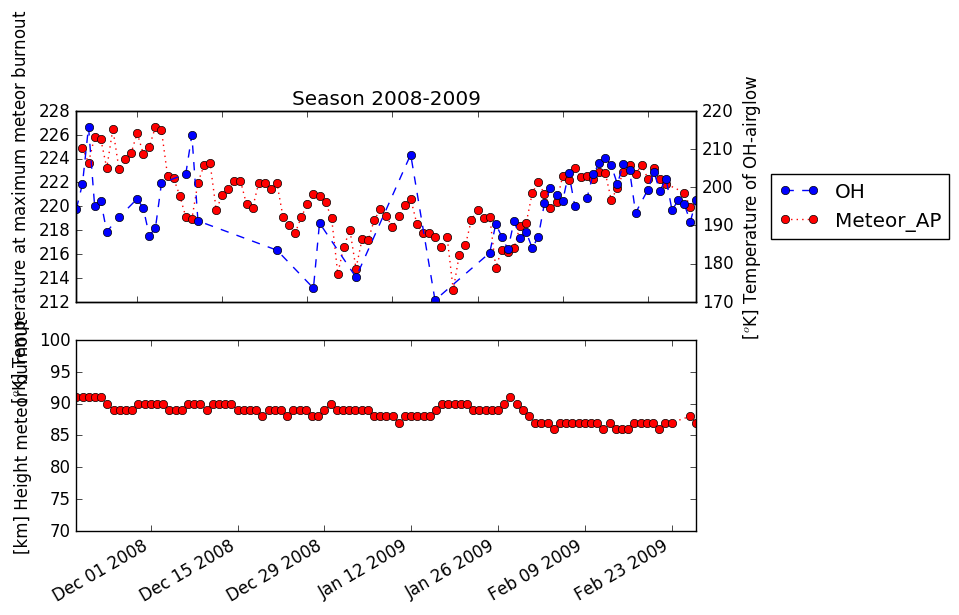
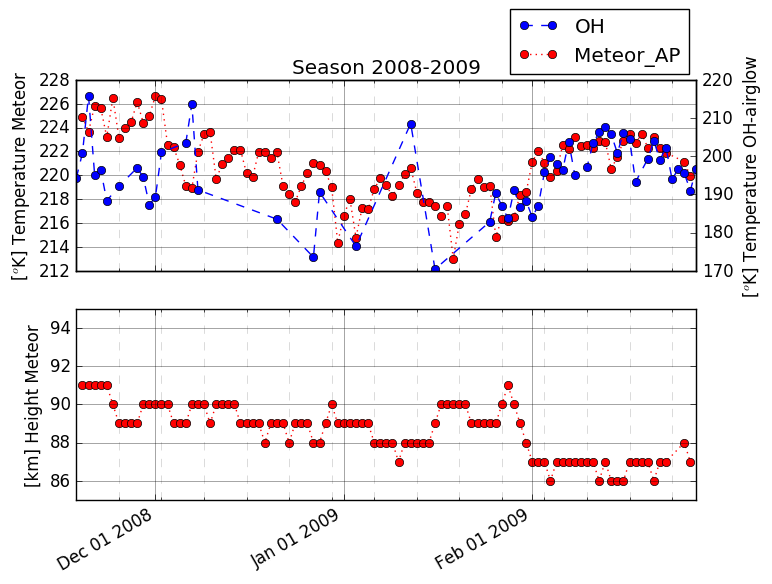
Changes to the figures, added grid and defined sacing to monts and first day of week

diff --git a/Middleatmos.py b/Middleatmos.py
@@ -4,6 +4,7 @@ import matplotlib.pyplot as mp
 import scipy.stats as stats
 from nrlmsise_00_header import *
 from nrlmsise_00 import *
+from matplotlib.dates import MonthLocator, YearLocator, WeekdayLocator
 
 from scipy import exp, asarray as ar
 from scipy.optimize import curve_fit
@@ -40,6 +41,13 @@ class Read_four_lines:
         return linesvec
 
     def read_oh(self,filename):
+        '''
+
+        Reads data for OH data set with filename daily_OHtemp_xxxx_mies.dat
+        Where xxxx is the season (ex: 1213),
+        the two first digits is the first year and the two last is the second year
+        '''
+
         infile = open(filename, 'r')
         lines =[line for line in infile]
         OH_data = zeros((len(lines),8))
@@ -76,6 +84,10 @@ class Middleatmos(Read_four_lines):
         '''
         This function reads OH data from file to a matrix OH_data
         Needs input filename of OH data,
+        Reads data for OH data set with filename daily_OHtemp_xxxx_mies.dat
+        Where xxxx is the season (ex: 1213),
+        the two first digits is the first year and the two last is the second year
+        (duplicate exist in Read_four_lines)
         '''
 
         self.filename = filename
@@ -378,19 +390,32 @@ class Middleatmos(Read_four_lines):
         l2 =ax2.plot(OH_dates, OH_temperature,'bo--', label='OH')
         l3 = ax1.plot(seasonaldates,seasonaltemperature_ap, 'ro:', label='Meteor_AP')
 
-        ax1.set_ylabel('[$^o$K] Temperature at maximum meteor burnout')
+        ax1.set_ylabel('[$^o$K] Temperature Meteor')
         #ax1.set_ylim(210,235)
-        ax2.set_ylabel('[$^o$K] Temperature of OH-airglow')
+        ax2.set_ylabel('[$^o$K] Temperature OH-airglow')
         #ax2.set_ylim(170,250)
         lns = l2 + l3
         labs = [l.get_label() for l in lns]
-        ax1.legend(lns,labs,bbox_to_anchor=(1.12,0.5), loc='center left', borderaxespad=0)
+        ax1.legend(lns,labs,bbox_to_anchor=(0.7,1.20), loc='center left', borderaxespad=0)
         mp.title(Title)
-        mp.subplot(212)
-        mp.plot(seasonaldates,seasonalsuzy, 'ro:')
-        mp.ylabel('[km] Height meteor burnout')
-        mp.ylim(70,100)
         mp.gcf().autofmt_xdate()
+        wloc = WeekdayLocator(byweekday=1)
+        mloc = MonthLocator()
+        ax1.xaxis.set_major_locator(mloc)
+        ax1.xaxis.set_minor_locator(wloc)
+        ax1.grid(True, which='major', linestyle='-', alpha=0.5 )
+        ax1.grid(True, which='minor', linestyle='--', alpha=0.2)
+
+        ax3 = mp.subplot(212,  sharex=ax1)
+        mp.plot(seasonaldates,seasonalsuzy, 'ro:')
+        ymin = 85 #min(seasonalsuzy)
+        ymax = 95 #max(seasonalsuzy)
+        mp.ylabel('[km] Height Meteor')
+        mp.ylim(ymin,ymax)
+        mp.setp(ax3.get_xticklabels(), visible=True)
+        mp.gcf().autofmt_xdate()
+        ax3.grid(True, which='major', linestyle='-', alpha=0.5 )
+        ax3.grid(True, which='minor', linestyle='--', alpha=0.2)
 
 
 
